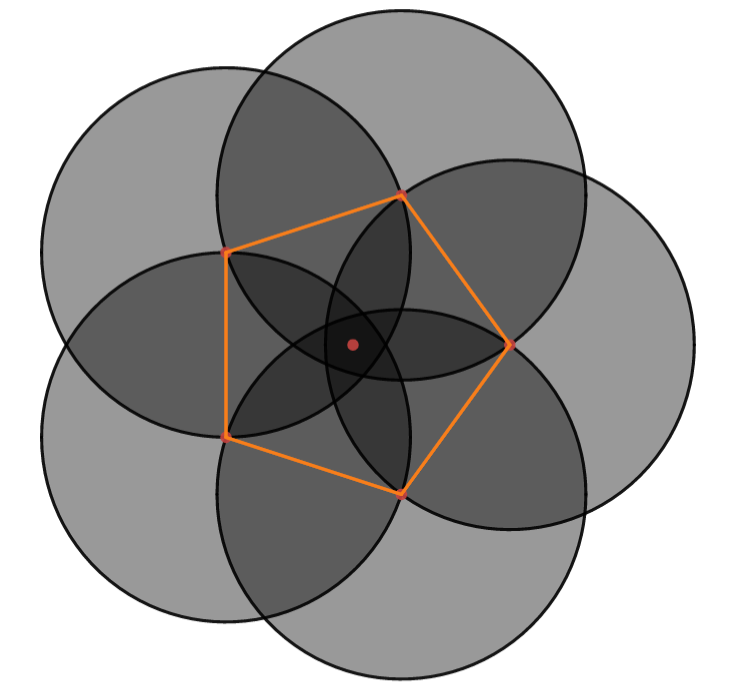
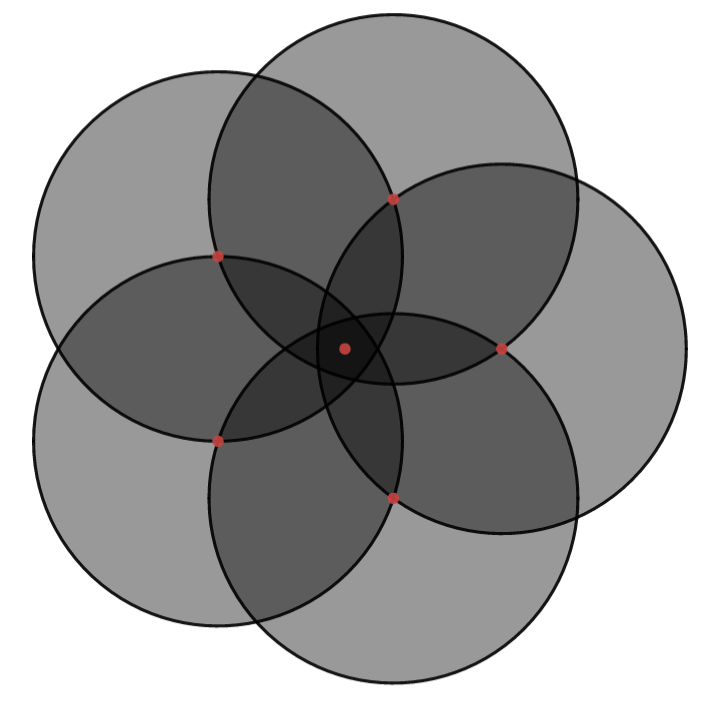
circle calculations

diff --git a/Documentation.md b/Documentation.md
@@ -22,7 +22,7 @@ where $\ket{0_i}$ and $\ket{1_i}$ are the ground and Rydberg states for atoms $i
 
 **Figure 1:**  The neighborhood around an inverse sextic potential $V\propto\frac{1}{|\vec{r}|^6}$
 
-## Graph Pictures
+## Exploiting the Interaction Tail with Tail Graph Feature
 
 |                            Graph                             |                                                              |
 | :----------------------------------------------------------: | :----------------------------------------------------------: |
@@ -31,19 +31,29 @@ where $\ket{0_i}$ and $\ket{1_i}$ are the ground and Rydberg states for atoms $i
 | ![con_graph_with_one_node_turned_off](Documentation.assets/con_graph_with_one_node_turned_off-1674976189641-28.png) | ![graph_with_one_node_turned_off](Documentation.assets/graph_with_one_node_turned_off-1674976240084-37-1674976241998-39.png) |
 |                                                              |                                                              |
 
+**Figure 2:** Pranav to write description
 
 
 
+## Analysis of the $(N,\lambda)$ Regular Polyhedron Junction
 
+Suppose that $N$ unit disks are to be brought as close as possible under the constraint that the centers of the disks must always  define the vertices of a regular polygon of $N$ sides. This can be accomplished by considering the set of points
 
+$\set{\lambda cos(\frac{2\pi k}{N}),\lambda sin(\frac{2\pi k}{N})\space|\space k\in\set{0,1,...,N-1}}$ where $\lambda$ is a scalar multiple equal to the new radii of the disks under a dilation by the factor $\lambda$. We wish to find the largest integer $N$ such that there is a $\lambda<1$ such that all disks enclose exactly one center.
 
-$\lambda(N)=\frac{1}{\sqrt{2(1-cos(\frac{2\pi}{N})}}$
+By the Law of Cosines, the distance separating the centers of a pair of adjacent disks after a dilation by factor $\lambda$ is given as
+
+$d(N)=\sqrt{\lambda^2+\lambda^2-2(\lambda)(\lambda)\cos(\frac{2\pi}{N})}=\sqrt{2\lambda^2(1-\cos(\frac{2\pi}{N})}=\lambda\sqrt{2(1-\cos(\frac{2\pi}{N})}$
+
+and requiring that $d(N)\geq1$ yields
+
+$\lambda(N)\geq\frac{1}{\sqrt{2(1-cos(\frac{2\pi}{N})}}$. It immediately follows that if $\lambda=\lambda_{min}(N)=\frac{1}{\sqrt{2(1-cos(\frac{2\pi}{N})}}$, the distance between the centers of adjacent disks is exactly $1$. Since $\lambda_{min}(N)=\frac{1}{\sqrt{2(1-cos(\frac{2\pi}{N})}}$ is monotonically increasing for integers $i\geq1$
 
 | ![N4](Documentation.assets/N4.png) | ![N5Unscaled](Documentation.assets/N5Unscaled.png) |
 | ---------------------------------- | -------------------------------------------------- |
 | ![N5](Documentation.assets/N5.png) | ![N6](Documentation.assets/N6.png)                 |
 
-
+**Figure 3:** Regular polyhedron junctions for $(N,\lambda)=(4,1),(5,1),(5,\lambda_{min}(5)),(6,1)$
 
 
 
